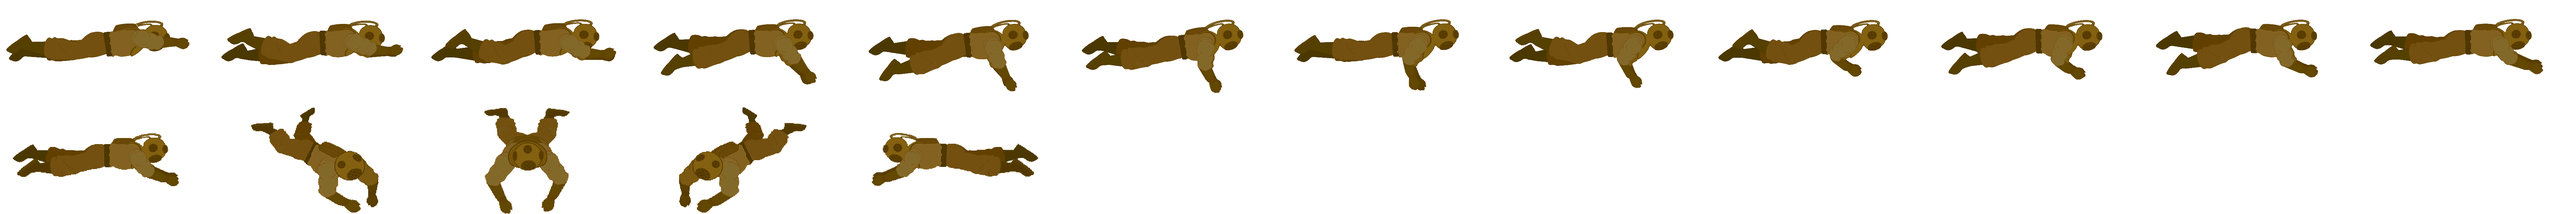
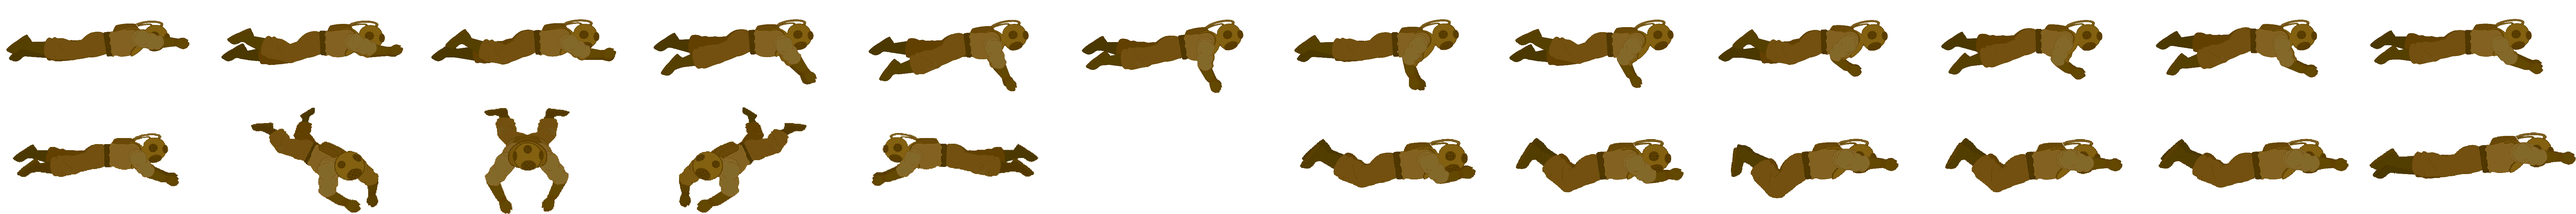
starting to implement kick off animation

Changed region(s): [[0.5, 0.63, 1.0, 0.93]]

diff --git a/core/src/com/xstudios/salvage/game/models/DiverModel.java b/core/src/com/xstudios/salvage/game/models/DiverModel.java
@@ -324,6 +324,7 @@ public class DiverModel extends GameObject {
 
 
     int turnFrames = 0;
+    int kickOffFrame = 10;
 
     public void balanceRotation() {
         while (body.getAngle() > 0.1 || body.getAngle() < -0.1) {
@@ -334,7 +335,6 @@ public class DiverModel extends GameObject {
             } else {
                 body.setAngularVelocity(0.0f);
             }
-            System.out.println("ANG: " + body.getAngle());
         }
     }
 
@@ -342,12 +342,7 @@ public class DiverModel extends GameObject {
     public void setHorizontalMovement(float value) {
         movement.x = value;
         if (movement.x < 0 && faceRight) {
-//            turnFrames = 4;
-
-
         } else if (movement.x > 0 && !faceRight) {
-//            turnFrames = 4;
-
         }
 
 
@@ -578,45 +573,7 @@ public class DiverModel extends GameObject {
     }
 
 
-    @Override
-    public void draw(GameCanvas canvas) {
-        tick++;
-        float effect = faceRight ? 1.0f : -1.0f;
-        float flip = bodyFlip ? -1.0f : 1.0f;
-
-        if (texture != null) {
-
-            if (stunned) {
-                if (stunCooldown % 20 > 5) {
-
-                    canvas.draw(diverSprite, Color.RED, origin.x, origin.y, getX() * drawScale.x, getY() * drawScale.y, getAngle(), effect * 0.25f, 0.25f);
-                } else {
-                    canvas.draw(diverSprite, Color.WHITE, origin.x, origin.y, getX() * drawScale.x, getY() * drawScale.y, getAngle(), effect * 0.25f, 0.25f);
-                }
-            } else {
-
-                float angle = getAngle();
-                if (turnFrames > 0 && turnFrames < 5) {
-                    if (tick % 4 == 0) {
-                        turnFrames--;
-                    }
-                    diverSprite.setFrame(turnFrames + 12);
-                    canvas.draw(diverSprite, Color.WHITE, origin.x, origin.y, getX() * drawScale.x, getY() * drawScale.y, angle, effect * 0.25f, flip * 0.25f);
-                } else {
-                    canvas.draw(diverSprite, Color.WHITE, origin.x, origin.y, getX() * drawScale.x, getY() * drawScale.y, angle, effect * 0.25f, flip * 0.25f);
-                }
-
-            }
-        }
-
-
-        // draw the ping
-        if (ping || ping_cooldown > 0) {
-            canvas.draw(pingTexture, Color.WHITE, origin.x + pingDirection.x,
-                    origin.y + pingDirection.y, getX() * drawScale.x, getY() * drawScale.y, getAngle(), 0.25f, 0.25f);
-            ping_cooldown--;
-        }
-    }
+    // draw the ping
 
 
     /**
@@ -997,6 +954,8 @@ public class DiverModel extends GameObject {
      * @param latched used to set whether the player has latched onto something
      */
     public void setLatching(boolean latched) {
+        if (latched)
+            kickOffFrame = 0;
         latchedOn = latched;
     }
 
@@ -1054,6 +1013,49 @@ public class DiverModel extends GameObject {
         if (faceRight)
             return touchingRight.size() > 0;
         else return touchingLeft.size() > 0;
+    }
+
+    @Override
+    public void draw(GameCanvas canvas) {
+        tick++;
+        float effect = faceRight ? 1.0f : -1.0f;
+        float flip = bodyFlip ? -1.0f : 1.0f;
+
+        if (texture != null) {
+
+            if (stunned) {
+                if (stunCooldown % 20 > 5) {
+
+                    canvas.draw(diverSprite, Color.RED, origin.x, origin.y, getX() * drawScale.x, getY() * drawScale.y, getAngle(), effect * 0.25f, 0.25f);
+                } else {
+                    canvas.draw(diverSprite, Color.WHITE, origin.x, origin.y, getX() * drawScale.x, getY() * drawScale.y, getAngle(), effect * 0.25f, 0.25f);
+                }
+            } else {
+
+                float angle = getAngle();
+                if (turnFrames > 0 && turnFrames < 5) {
+                    if (tick % 4 == 0) {
+                        turnFrames--;
+                    }
+                    diverSprite.setFrame(turnFrames + 12);
+                    canvas.draw(diverSprite, Color.WHITE, origin.x, origin.y, getX() * drawScale.x, getY() * drawScale.y, angle, effect * 0.25f, flip * 0.25f);
+                } else if (kickOffFrame < 6) {
+                    if (tick % 3 == 0) {
+                        kickOffFrame++;
+                    }
+                    diverSprite.setFrame(kickOffFrame + 18);
+                    canvas.draw(diverSprite, Color.WHITE, origin.x, origin.y, getX() * drawScale.x, getY() * drawScale.y, angle, effect * 0.25f, flip * 0.25f);
+                } else {
+                    canvas.draw(diverSprite, Color.WHITE, origin.x, origin.y, getX() * drawScale.x, getY() * drawScale.y, angle, effect * 0.25f, flip * 0.25f);
+                }
+
+            }
+        }
+        if (ping || ping_cooldown > 0) {
+            canvas.draw(pingTexture, Color.WHITE, origin.x + pingDirection.x,
+                    origin.y + pingDirection.y, getX() * drawScale.x, getY() * drawScale.y, getAngle(), 0.25f, 0.25f);
+            ping_cooldown--;
+        }
     }
 
 }

diff --git a/core/src/com/xstudios/salvage/game/levels/LevelBuilder.java b/core/src/com/xstudios/salvage/game/levels/LevelBuilder.java
@@ -357,10 +357,11 @@ public class LevelBuilder {
                             break;
                         case Diver:
                             DiverModel d = new DiverModel(sx, sy, constants.get("diver"));
-                            for (JsonValue prop : obj.get("properties")) {
-                                if (prop.getString("name").equals("starting_oxygen"))
-                                    d.setMaxOxygen(prop.getInt("value"));
-                            }
+                            if (obj.get("properties") != null)
+                                for (JsonValue prop : obj.get("properties")) {
+                                    if (prop.getString("name").equals("starting_oxygen"))
+                                        d.setMaxOxygen(prop.getInt("value"));
+                                }
                             gameObjects.add(d);
                             break;
                         case DeadBody:
